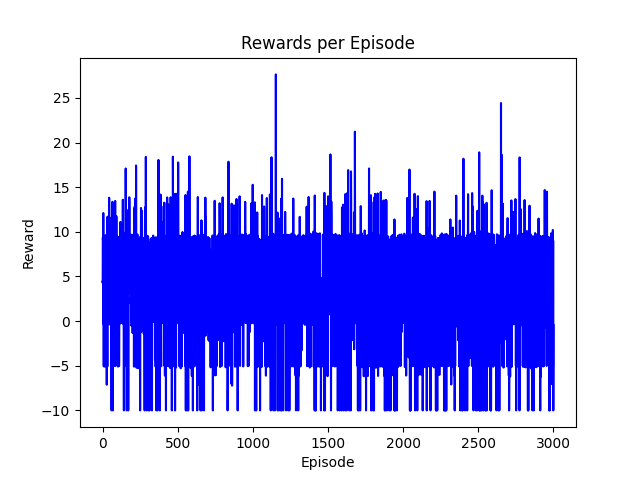
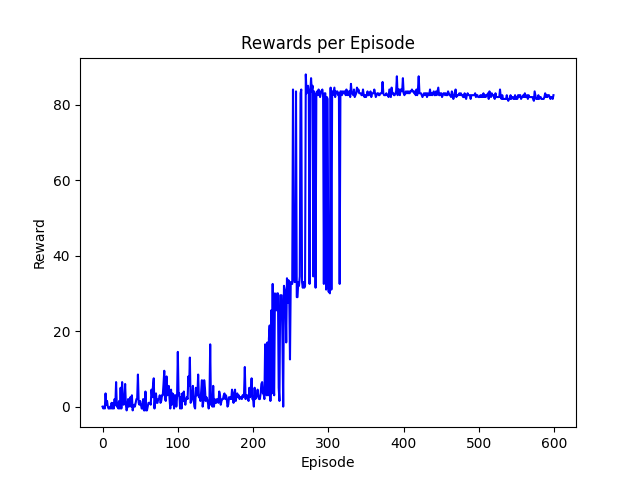
parking-net first step (failed)

diff --git a/main.py b/main.py
@@ -36,12 +36,16 @@ n_state: int = len(state)
 action_space = np.array([3, 4, 5])
 n_actions: int = len(action_space)
 
+# 입구 찾기 네트워크
 policy_net = DQN(n_state, n_actions).to(device)
-target_net = DQN(n_state, n_actions).to(device)
-target_net.load_state_dict(policy_net.state_dict())
 
-optimizer = optim.AdamW(policy_net.parameters(), lr=LR, amsgrad=True)
-memory = ReplayMemory(50000)
+# 주차 네트워크
+parking_policy_net = DQN(n_state, n_actions).to(device)
+parking_target_net = DQN(n_state, n_actions).to(device)
+parking_target_net.load_state_dict(parking_policy_net.state_dict())
+
+parking_optimizer = optim.AdamW(parking_policy_net.parameters(), lr=LR, amsgrad=True)
+parking_memory = ReplayMemory(50000)
 
 
 class RoadHogRLAgent(RoadHogAgent):
@@ -51,13 +55,12 @@ class RoadHogRLAgent(RoadHogAgent):
         self.idx = -1
         self.action_box = []
         self.is_finder = False
+        self.X = 0
+        self.Y = 0
 
     def reset(self):
         self.idx = -1
-
-    def env_reset(self):
-        for i in self.init_action_space:
-            ENV.step(i)
+        self.init_action_space = [7, 7, 7, 3, 3, 7, 7, 7, 3, 3, 7, 7, 7]
 
     def act(self, state):
         if self.init_action_space:
@@ -71,6 +74,18 @@ class RoadHogRLAgent(RoadHogAgent):
         with torch.no_grad():
             action = policy_net(state).max(1).indices.view(1, 1)
         self.action_box.append(action.item())
+
+        return action_space[action.item()]
+
+    def policy_net_act(self, state):
+        if self.init_action_space:
+            return self.init_action_space.pop(0)
+
+        state = parse_state(state["observation"], state["goal_spot"])
+        state = torch.tensor(state, dtype=torch.float32, device=device).unsqueeze(0)
+        with torch.no_grad():
+            action = policy_net(state).max(1).indices.view(1, 1)
+
         return action_space[action.item()]
 
     def train_act(self, state: torch.Tensor) -> torch.Tensor:
@@ -85,7 +100,7 @@ class RoadHogRLAgent(RoadHogAgent):
         steps_done += 1
         if sample > eps_threshold:
             with torch.no_grad():
-                return policy_net(state).max(1).indices.view(1, 1)
+                return parking_policy_net(state).max(1).indices.view(1, 1)
         else:
             return torch.tensor(
                 [[np.random.randint(3)]], device=device, dtype=torch.long
@@ -93,9 +108,9 @@ class RoadHogRLAgent(RoadHogAgent):
 
     def optimize_model(self):
 
-        if len(memory) < BATCH_SIZE:
+        if len(parking_memory) < BATCH_SIZE:
             return
-        transitions = memory.sample(BATCH_SIZE)
+        transitions = parking_memory.sample(BATCH_SIZE)
 
         batch = Transition(*zip(*transitions))
 
@@ -112,13 +127,13 @@ class RoadHogRLAgent(RoadHogAgent):
         action_batch = torch.cat(batch.action)
         reward_batch = torch.cat(batch.reward)
 
-        state_action_values = policy_net(state_batch).gather(1, action_batch)
+        state_action_values = parking_policy_net(state_batch).gather(1, action_batch)
 
         next_state_values = torch.zeros(BATCH_SIZE, device=device)
 
         with torch.no_grad():
             next_state_values[non_final_mask] = (
-                target_net(non_final_next_states).max(1).values
+                parking_target_net(non_final_next_states).max(1).values
             )
 
         expected_state_action_values = (next_state_values * GAMMA) + reward_batch
@@ -126,43 +141,39 @@ class RoadHogRLAgent(RoadHogAgent):
         criterion = nn.SmoothL1Loss()
         loss = criterion(state_action_values, expected_state_action_values.unsqueeze(1))
 
-        optimizer.zero_grad()
+        parking_optimizer.zero_grad()
         loss.backward()
 
-        torch.nn.utils.clip_grad_value_(policy_net.parameters(), 100)
-        optimizer.step()
+        torch.nn.utils.clip_grad_value_(parking_policy_net.parameters(), 100)
+        parking_optimizer.step()
 
-    def save(self, file_path="policy_net.pth"):
-        """정책 네트워크와 타겟 네트워크 저장"""
+    def save(self, file_path="parking_policy_net.pth"):
         torch.save(
             {
-                "policy_net_state_dict": policy_net.state_dict(),
-                "target_net_state_dict": target_net.state_dict(),
-                "optimizer_state_dict": optimizer.state_dict(),
+                "parking_policy_net_state_dict": parking_policy_net.state_dict(),
                 "steps_done": steps_done,
             },
             file_path,
         )
         print(f"Model saved to {file_path}")
 
-    def load(self, file_path="policy_net.pth"):
-        """정책 네트워크와 타겟 네트워크 불러오기"""
-        global steps_done
+    def load_policy_net(self, file_path="policy_net.pth"):
         checkpoint = torch.load(file_path, map_location=device)
         policy_net.load_state_dict(checkpoint["policy_net_state_dict"])
-        target_net.load_state_dict(checkpoint["target_net_state_dict"])
-        optimizer.load_state_dict(checkpoint["optimizer_state_dict"])
-        steps_done = checkpoint.get("steps_done", 0)
+        print(f"Model loaded from {file_path}")
+
+    def load_parking_net(self, file_path="parking_policy_net.pth"):
+        checkpoint = torch.load(file_path, map_location=device, weights_only=True)
+        parking_policy_net.load_state_dict(checkpoint["parking_policy_net_state_dict"])
         print(f"Model loaded from {file_path}")
 
 
 def skip_step(
-    action: torch.Tensor,
+    action: int,
 ):
     done = False
-    a = action_space[action.item()]
     for _ in range(2):
-        observation, reward, terminated, truncated, _ = ENV.step(a)
+        observation, reward, terminated, truncated, _ = ENV.step(action)
         done = terminated or truncated
         if done:
             break
@@ -186,30 +197,53 @@ def train(agent: RoadHogRLAgent):
 
     num_episodes = 600
 
+    # 클리어 조건 임계값 설정
+    distance_threshold = 0.1
+    sin_threshold = 0.1
     for episode in range(num_episodes):
         agent.reset()
         observation, _ = ENV.reset()
-        pre_state = parse_state(observation["observation"], observation["goal_spot"])
-        state_t = torch.tensor(pre_state, dtype=torch.float32, device=device).unsqueeze(
-            0
-        )
 
         episode_reward = 0.0
         goal = False
-
-        agent.env_reset()
         while 1:
+            # 객체가 주차장에 진입
+            if observation["observation"][0][0] <= -55:
+                action = agent.policy_net_act(observation)
+                observation, done = skip_step(action)
+                pre_state = parse_state(
+                    observation["observation"], observation["goal_spot"]
+                )
+                state_t = torch.tensor(
+                    pre_state, dtype=torch.float32, device=device
+                ).unsqueeze(0)
+
+                agent.X = pre_state[0]
+                agent.Y = pre_state[1]
+                continue
+
             action = agent.train_act(state_t)
-            observation, done1 = skip_step(action)
+            observation, done1 = skip_step(action.item())
             state = parse_state(observation["observation"], observation["goal_spot"])
-            reward, done2 = calculate_reward(pre_state, state)
+            reward, done2 = calculate_reward(pre_state, state, (agent.X, agent.Y))
             pre_state = state
 
             done = done1 or done2
 
-            if -60 <= state[0] <= -50:
-                done = True
-                reward = 50.0
+            # 클리어 확인
+            if done:
+                x, y, sin = state[0], state[1], state[2]
+                target_x, target_y, target_sin = state[3], state[4], state[5]
+
+                # 거리와 sin 차이 계산
+                distance_to_target = ((x - target_x) ** 2 + (y - target_y) ** 2) ** 0.5
+                sin_difference = abs(sin - target_sin)
+                if (
+                    distance_to_target < distance_threshold
+                    and sin_difference < sin_threshold
+                ):
+                    goal = True
+                    reward = 50.0
 
             episode_reward += reward
             reward_t = torch.tensor([reward], device=device)
@@ -222,29 +256,29 @@ def train(agent: RoadHogRLAgent):
                     state, dtype=torch.float32, device=device
                 ).unsqueeze(0)
 
-            # 메모리에 변이 저장
-            memory.push(state_t, action, next_state, reward_t)
+            # 메모리에 저장
+            parking_memory.push(state_t, action, next_state, reward_t)
 
             # 다음 상태로 이동
             state_t = next_state
 
-            # (정책 네트워크에서) 최적화 한단계 수행
+            # 최적화
             agent.optimize_model()
 
-            # 목표 네트워크의 가중치를 소프트 업데이트
-            target_net_state_dict = target_net.state_dict()
-            policy_net_state_dict = policy_net.state_dict()
-            for key in policy_net_state_dict:
-                target_net_state_dict[key] = policy_net_state_dict[
+            # 목표 네트워크 가중치 소프트 업데이트
+            parking_target_net_state_dict = parking_target_net.state_dict()
+            parking_policy_net_state_dict = parking_policy_net.state_dict()
+            for key in parking_policy_net_state_dict:
+                parking_target_net_state_dict[key] = parking_policy_net_state_dict[
                     key
-                ] * TAU + target_net_state_dict[key] * (1 - TAU)
-            target_net.load_state_dict(target_net_state_dict)
+                ] * TAU + parking_target_net_state_dict[key] * (1 - TAU)
+            parking_target_net.load_state_dict(parking_target_net_state_dict)
 
             if done:
                 break
 
         rewards_history.append(episode_reward)
-        if episode % 100 == 0:
+        if episode % 10 == 0:
             print(f"episode: {episode} reward: {episode_reward}")
             print(f"agent x: {state[0]} agent y: {state[1]}")
             print()
@@ -252,15 +286,17 @@ def train(agent: RoadHogRLAgent):
 
 if __name__ == "__main__":
     agent = RoadHogRLAgent()
-    # train(agent)
-    # agent.save()
-    agent.load()
-    evaluate(agent)
+    agent.load_policy_net()
+    train(agent)
+    agent.save()
+
+    # evaluate(agent)
+
     # run_manual()
 
-    # print("Complete")
-    # plt.plot(range(len(rewards_history)), rewards_history, color="blue")
-    # plt.xlabel("Episode")
-    # plt.ylabel("Reward")
-    # plt.title("Rewards per Episode")
-    # plt.savefig("dqn-reward-history.png")
+    print("Complete")
+    plt.plot(range(len(rewards_history)), rewards_history, color="blue")
+    plt.xlabel("Episode")
+    plt.ylabel("Reward")
+    plt.title("Rewards per Episode")
+    plt.savefig("dqn-reward-history.png")

diff --git a/dqn.py b/dqn.py
@@ -48,22 +48,39 @@ def parse_state(state: list, target: list):
     )
 
 
-def calculate_reward(pre_state: list, state: list) -> Tuple[float, bool]:
-    x1, y1, sin1, x2, y2, sin2 = state
-    boundaryY = [-10, 10]
-    boundaryX = -245
-    targetX = -50
+def calculate_reward(
+    pre_state: list, state: list, initialAgentLoc: Tuple
+) -> Tuple[float, bool]:
+    pre_x, pre_y, pre_sin = pre_state[0], pre_state[1], pre_state[2]
+    x, y, sin = state[0], state[1], state[2]
+    target_x, target_y, target_sin = state[3], state[4], state[5]
 
-    # 경계를 벗어나면 -1.0 보상
-    if y1 < boundaryY[0] or y1 > boundaryY[1]:
+    # 초기 위치 추출
+    initial_x, initial_y = initialAgentLoc
+    boundaryX1 = initial_x - 1  # 초기 위치 기준 x 경계
+    boundaryX2 = target_x + 3  # 목표 위치 기준 x 경계
+    boundaryY1 = target_y - 3  # 목표 위치 기준 y 경계
+    boundaryY2 = initial_y + 2  # 초기 위치 기준 y 경계
+
+    # 이전과 현재의 목표와의 거리 계산
+    pre_distance_to_target = ((pre_x - target_x) ** 2 + (pre_y - target_y) ** 2) ** 0.5
+    current_distance_to_target = ((x - target_x) ** 2 + (y - target_y) ** 2) ** 0.5
+
+    # 목표 기울기(sin) 차이 계산
+    sin_difference = abs(sin - target_sin)
+
+    # 보상 정의
+    reward = 0.0
+
+    # 경계값 벗어나는 경우
+    if x < boundaryX1 or x > boundaryX2 or y < boundaryY1 or y > boundaryY2:
         return -1.0, True
-    if x1 < boundaryX:
-        return -1.0, True
 
-    x1_prev, y1_prev, sin1_prev, _, _, _ = pre_state
+    # 목표에 가까워지면 보상
+    if current_distance_to_target < pre_distance_to_target:
+        reward += 0.5
 
-    # -50에 더 가까워졌는지 확인
-    if abs(x1 - targetX) < abs(x1_prev - targetX) and abs(x1 - targetX) > 0.5:
-        return 0.5, False
+    # 기울기 차이가 작을수록 보상 증가
+    reward += max(1.0 - sin_difference, 0)
 
-    return 0.0, False
+    return reward, False
